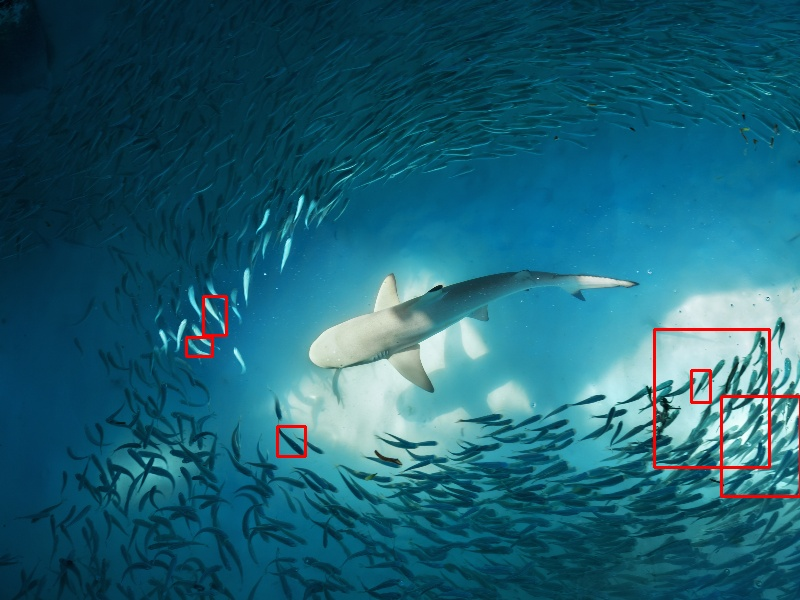
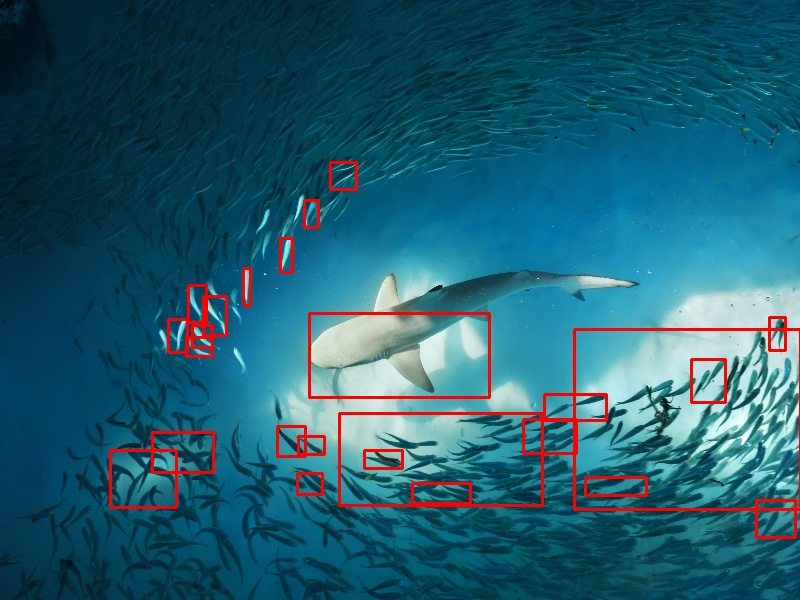
Add morphological closing

diff --git a/main.py b/main.py
@@ -4,12 +4,11 @@ from src.analysis import calculate_contour_statistics
 from src.detection import detect_edges, draw_bounding_boxes, draw_contours, filter_contours_by_area, find_contours
 from src.image_loader import load_image
 from src.image_saver import print_save_status, save_image
-from src.preprocessing import apply_gaussian_blur, convert_to_grayscale, resize_image
+from src.preprocessing import apply_gaussian_blur, apply_morphological_closing, convert_to_grayscale, resize_image
 
 
 image = load_image("images/sample_marine.jpg")
 
-#Load image
 if image is None:
     sys.exit(1)
 
@@ -89,13 +88,33 @@ print_save_status(
     image_label="Edge"
 )
 
-contours = find_contours(edge_image)
+closed_edge_image = apply_morphological_closing(
+    edge_image=edge_image,
+    kernel_size=3
+)
 
-print(f"Detected contours: {len(contours)}")
+print("Image edges were closed successfully.")
+print(f"Closed edge image shape: {closed_edge_image.shape}")
+
+save_successful = save_image(
+    closed_edge_image,
+    "output/closed_edge_image.jpg"
+)
+
+print_save_status(
+    save_successful,
+    image_label="Closed edge"
+)
+
+original_contours = find_contours(edge_image)
+closed_contours = find_contours(closed_edge_image)
+
+print(f"Detected original contours: {len(original_contours)}")
+print(f"Detected closed contours: {len(closed_contours)}")
 
 image_contours = draw_contours(
     resized_image,
-    contours
+    closed_contours
 )
 
 print("Contours drawn on image successfully.")
@@ -112,7 +131,7 @@ print_save_status(
 )
 
 relevant_contours = filter_contours_by_area(
-    contours,
+    closed_contours,
     min_area=100
 )
 
@@ -136,13 +155,23 @@ print_save_status(
     image_label="Bounding box"
 )
 
-all_contour_stats = calculate_contour_statistics(contours)
+original_contour_stats = calculate_contour_statistics(original_contours)
 print(
     "\nAll contour statistics:\n"
-    f"Count: {all_contour_stats['count']}\n"
-    f"Total Area: {all_contour_stats['total_area']}\n"
-    f"Average Area: {all_contour_stats['average_area']}\n"
-    f"Largest Area: {all_contour_stats['largest_area']}")
+    f"Count: {original_contour_stats['count']}\n"
+    f"Total Area: {original_contour_stats['total_area']}\n"
+    f"Average Area: {original_contour_stats['average_area']}\n"
+    f"Largest Area: {original_contour_stats['largest_area']}"
+    )
+
+closed_contour_stats = calculate_contour_statistics(closed_contours)
+print(
+    "\nClosed contour statistics:\n"
+    f"Count: {closed_contour_stats['count']}\n"
+    f"Total Area: {closed_contour_stats['total_area']}\n"
+    f"Average Area: {closed_contour_stats['average_area']}\n"
+    f"Largest Area: {closed_contour_stats['largest_area']}"
+    )
 
 relevant_contour_stats = calculate_contour_statistics(relevant_contours)
 print(
@@ -150,4 +179,5 @@ print(
     f"Count: {relevant_contour_stats['count']}\n"
     f"Total Area: {relevant_contour_stats['total_area']}\n"
     f"Average Area: {relevant_contour_stats['average_area']}\n"
-    f"Largest Area: {relevant_contour_stats['largest_area']}")
+    f"Largest Area: {relevant_contour_stats['largest_area']}"
+    )

diff --git a/tests/test_preprocessing.py b/tests/test_preprocessing.py
@@ -1,6 +1,6 @@
 import numpy as np
 
-from src.preprocessing import apply_gaussian_blur, convert_to_grayscale, resize_image 
+from src.preprocessing import apply_gaussian_blur, apply_morphological_closing, convert_to_grayscale, resize_image 
 
 
 def test_resize_image():
@@ -38,3 +38,17 @@ def test_gaussian_blur():
     assert blurred_image.shape == image.shape
     assert blurred_image[50, 100] < 255
     assert np.any(blurred_image > 0)
+
+
+def test_morphological_closing():
+    image = np.zeros((100, 100), dtype=np.uint8)
+    image[25:50, 20] = 255
+    image[51:60, 20] = 255
+
+    closed_edge_image = apply_morphological_closing(
+        edge_image=image,
+        kernel_size=3
+    )
+
+    assert image.shape == closed_edge_image.shape
+    assert closed_edge_image[50, 20] == 255

diff --git a/src/preprocessing.py b/src/preprocessing.py
@@ -1,4 +1,5 @@
 import cv2
+import numpy as np
 
 
 def resize_image(image, width, height):
@@ -15,5 +16,17 @@ def convert_to_grayscale(image):
 
 def apply_gaussian_blur(grayscale_image, kernel_size):
     result = cv2.GaussianBlur(grayscale_image, (kernel_size, kernel_size), 0)
+
+    return result
+
+
+def apply_morphological_closing(edge_image, kernel_size):
+    kernel = np.ones((kernel_size, kernel_size), dtype=np.uint8)
+
+    result = cv2.morphologyEx(
+        edge_image,
+        cv2.MORPH_CLOSE,
+        kernel
+        )
 
     return result
